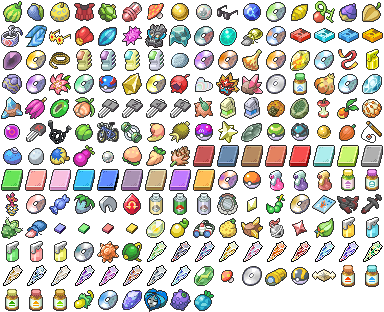
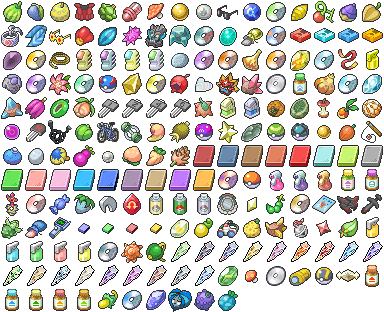
在背包加入可随处使用的地区转移器

Changed region(s): [[0.0, 0.6923, 1.0, 1.0], [0.5625, 0.8077, 0.5938, 0.8365], [0.5, 0.8077, 0.5312, 0.8365]]

diff --git a/tools/import_bag_icons.py b/tools/import_bag_icons.py
@@ -74,7 +74,7 @@ def main():
                     "PP 多项小补剂":"ELIXIR","PP 多项全补剂":"MAX_ELIXIR","PP 单项":"ETHER",
                     "PP 多项":"ELIXIR","PP 全满":"MAX_ELIXIR","力量强化":"X_ATTACK","圣灰":"SACRED_ASH",
                     "自行车":"MACH_BIKE","其他":"TM_CASE","携带":"LEFTOVERS","太晶":"NORMAL_TERA_SHARD",
-                    "钓竿":"OLD_ROD","PP 提升剂":"PP_UP","优质伤药":"SUPER_POTION"})
+                    "钓竿":"OLD_ROD","PP 提升剂":"PP_UP","优质伤药":"SUPER_POTION","地区转移器":"SCANNER"})
     for name, ident in aliases.items():
         if ident in pairs:
             register(name, *pairs[ident])

diff --git a/README.md b/README.md
@@ -1,8 +1,10 @@
 # PokeSaga · 安卓学习版
 
-用 Godot 4.7.2 开发的横屏宝可梦同人 RPG。当前学习版为 `4.51.0-study`，versionCode 为 84，包名为 `com.stepx.pokesaga.study`。它可以和 4.46 版同时安装，两份应用分别保存进度。
+用 Godot 4.7.2 开发的横屏宝可梦同人 RPG。当前学习版为 `4.52.0-study`，versionCode 为 85，包名为 `com.stepx.pokesaga.study`。它可以和 4.46 版同时安装，两份应用分别保存进度。
 
-[下载 4.51 安卓学习版（ARM64 APK）](https://github.com/zachshi-ai/pokesaga/releases/download/v4.51.0-study/PokeSaga-4.51.0-study.apk) · [查看发布说明](https://github.com/zachshi-ai/pokesaga/releases/tag/v4.51.0-study)
+[下载 4.52 安卓学习版（ARM64 APK）](https://github.com/zachshi-ai/pokesaga/releases/download/v4.52.0-study/PokeSaga-4.52.0-study.apk) · [查看发布说明](https://github.com/zachshi-ai/pokesaga/releases/tag/v4.52.0-study)
+
+**地区转移器**随新档发放，旧档选择「继续冒险」后也会出现在背包里。探索时点 **START → 背包 → 重要道具 → 地区转移器**，选地区，再点「出发前往」。可以从屋内、洞窟、水上或异空间直接抵达任一地区的领航员旁。21 个目的地从开局就能选择，道具可重复使用，到达后自动保存。 [查看背包实拍](.github/preview/v4.52-region-transfer.png)
 
 ![安卓同位置实拍对比。左列为 4.50，右列为 4.51。上排是常磐商店门前，下排是华蓝道馆的木桥和水池。](.github/preview/v4.51-field.png)
 
@@ -39,10 +41,10 @@
 ```bash
 godot --headless --path . --import
 godot --path .
-tools/build_android.sh ../交付/PokeSaga-4.51.0-study.apk
+tools/build_android.sh ../交付/PokeSaga-4.52.0-study.apk
 ```
 
-构建 Android 需要匹配的 Godot 导出模板、JDK 17、Android SDK、platform-tools、build-tools 和 Godot 可访问的本机调试签名。已配置的机器可用 `GODOT_BIN`、`JAVA_HOME`、`ANDROID_HOME` 选择工具路径。本机脚本也识别 `~/Library/Application Support/PokeSagaBuild`。学习版使用 `Android Study` 导出预设，目标架构为 ARM64，输出为签名调试 APK。安装可用 `adb install -r ../交付/PokeSaga-4.51.0-study.apk`。
+构建 Android 需要匹配的 Godot 导出模板、JDK 17、Android SDK、platform-tools、build-tools 和 Godot 可访问的本机调试签名。已配置的机器可用 `GODOT_BIN`、`JAVA_HOME`、`ANDROID_HOME` 选择工具路径。本机脚本也识别 `~/Library/Application Support/PokeSagaBuild`。学习版使用 `Android Study` 导出预设，目标架构为 ARM64，输出为签名调试 APK。安装可用 `adb install -r ../交付/PokeSaga-4.52.0-study.apk`。
 
 ## 验证改动
 
@@ -54,6 +56,7 @@ godot --headless --fixed-fps 60 --path . --script tools/test_field_mapping.gd
 godot --headless --fixed-fps 60 --path . --script tools/test_firered_passages.gd
 godot --headless --fixed-fps 60 --path . --script tools/test_frlg_story.gd
 godot --headless --fixed-fps 60 --path . --script tools/test_world_atlas.gd
+godot --headless --fixed-fps 60 --path . --script tools/test_region_transfer.gd
 godot --headless --path . --script tools/test_npc_appearances.gd
 python3 tools/test_first_chapter.py --godot /path/to/godot
 godot --headless --fixed-fps 60 --path . --script tools/test_collection.gd
